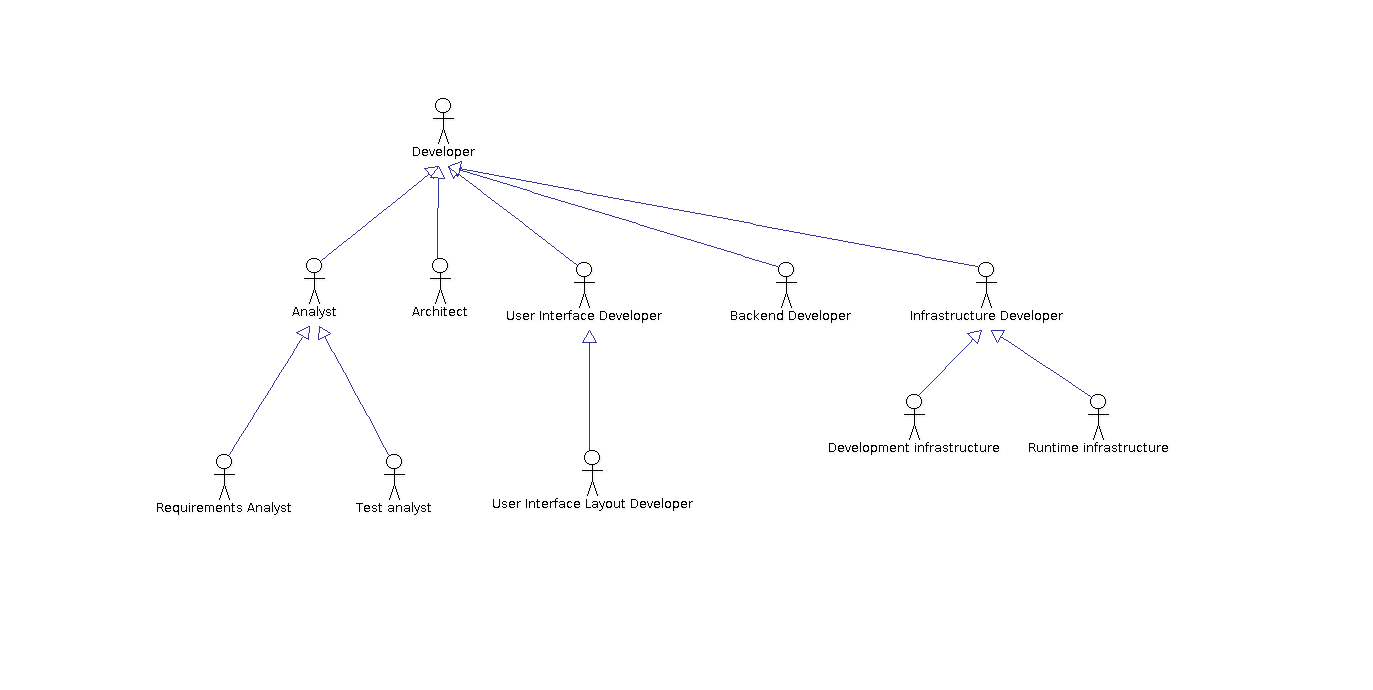
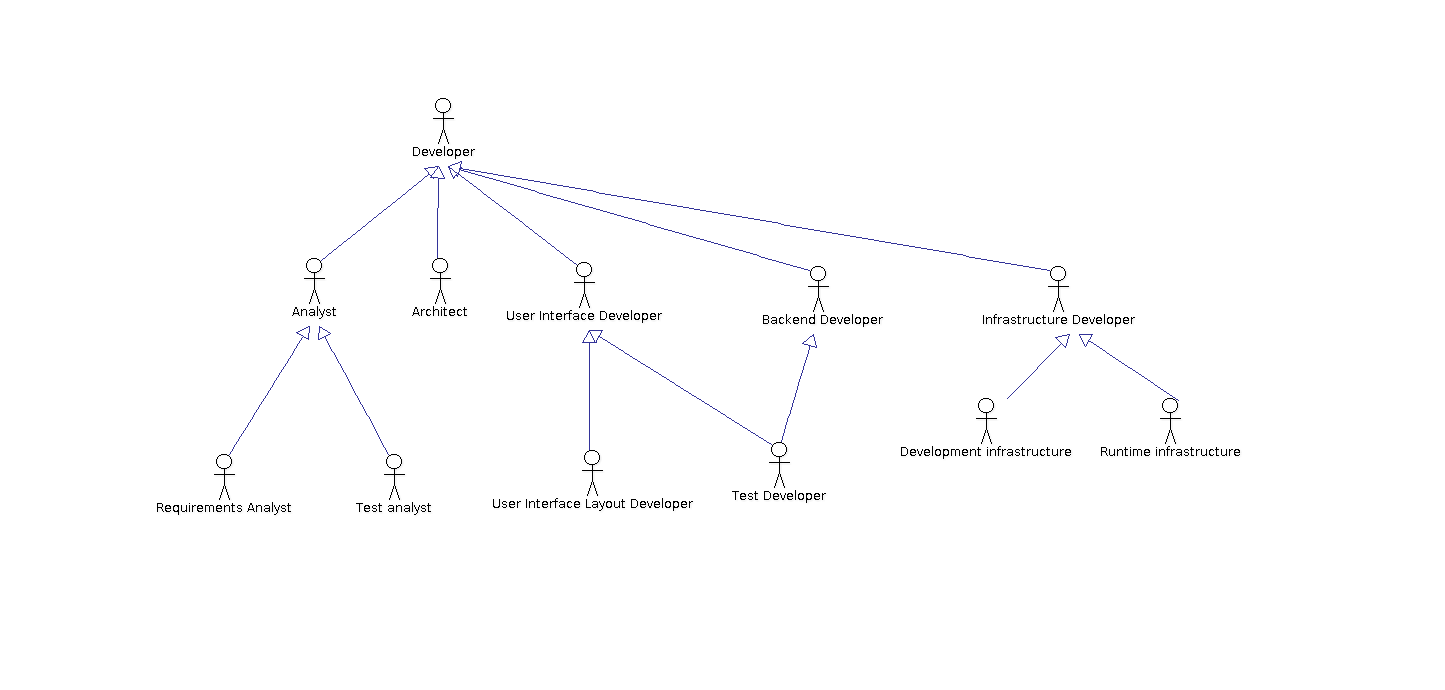
- role extender, documented methodoligies, technologies and tools

diff --git a/1-architecture/README.md b/1-architecture/README.md
@@ -99,9 +99,14 @@ The following picture shows **Developer Roles** identified in `DevCC` c
   * **User Interface Developer**: *implementation developer* responsible for user interface functionality
 
     * **User Interface Layout Developer**: *implementation developer*
-        responsible for visual aspect of user interface
+        responsible for visual aspect of user interface, implement also unit
+      tests for the code
 
-  * **Backed Developer**: *implementation developer* responsible for integrating back end systems and datastores
+  * **Backed Developer**: *implementation developer* responsible for
+      integrating back end systems and datastores, implement also unit
+      tests for the code
+  
+  * **Test Developer**: implement test, which are not unit tests, e.g. acceptance test implementation
   
   * **Infrastructure Developer**: Further decomposed to *Development
       Infrastructure Developer* and *Runtime Infrastructure Management
@@ -116,49 +121,92 @@ The following picture shows **Developer Roles** identified in `DevCC` c
 
 * **Requirements Analyst** 
   * **Methodologies**
+    * [INVEST requirements](http://en.wikipedia.org/wiki/INVEST_%28mnemonic%29)
   * **Technologies**
   * **Tools**
+    * [Free Twitter Bootstrap 3.0 UI Mockup Templates for Keynote and PowerPoint](http://keynotopia.com/bootstrap/)
+	* [Office Tools](http://office.microsoft.com/en-us/) or [LibreOffice](https://www.libreoffice.org/)
   
 * **Test Analyst** 
   * **Methodologies**
+	* [Behavior-driven development](http://en.wikipedia.org/wiki/Behavior-driven_development)
+	* [Acceptance Testing](http://en.wikipedia.org/wiki/Acceptance_testing)
   * **Technologies**
   * **Tools**
+    * [Cucumber](http://cukes.info/)
 
 * **Architect** : support as mediator between analysts and implementation developers
   * **Methodologies**
   * **Technologies**
   * **Tools**
+	* [Dia](http://en.wikipedia.org/wiki/Dia_%28software%29)
+	* [ArgoUML](http://argouml.tigris.org/)
 
 * **User Interface Developer**
   * **Methodologies**
+    * [Unit testing](http://en.wikipedia.org/wiki/Unit_testing)
+    * [Unit testing](http://en.wikipedia.org/wiki/Unit_testing)
   * **Technologies**
+	* [css](http://en.wikipedia.org/wiki/Cascading_Style_Sheets)
+	* [html](http://en.wikipedia.org/wiki/HTML)
+    * [Javascript](http://en.wikipedia.org/wiki/JavaScript)
   * **Tools**
+	* [Bower](https://github.com/bower/bower)
+	* [AngularJS Framework](http://angularjs.org/)
+    * [Twitter Bootstrap](http://getbootstrap.com/)
+	* [Karma Test Runner](http://karma-runner.github.io/0.10/index.html)
+	* [Mocha Unit test framework](http://visionmedia.github.io/mocha/)
+	* [Chai assertion libray](http://chaijs.com/)
 
 * **User Interface Layout Developer**
   * **Methodologies**
   * **Technologies**
+	* [css](http://en.wikipedia.org/wiki/Cascading_Style_Sheets)
+	* [html](http://en.wikipedia.org/wiki/HTML)
   * **Tools**
+    * [Twitter Bootstrap](http://getbootstrap.com/)
 
 * **Backed Developer**
   * **Methodologies**
   * **Technologies**
+    * [Javascript](http://en.wikipedia.org/wiki/JavaScript)
   * **Tools**
-  
+	* [Bower](https://github.com/bower/bower)
+    * [NodeJs](http://nodejs.org/)
+	* [Node Package Manager](https://www.npmjs.org/)
+	* [ExpressJs](http://expressjs.com/guide.html)
+
+* **Test Developer**
+  * **Methodologies**
+    * [Continuous Integration](http://en.wikipedia.org/wiki/Continuous_integration)
+  * **Technologies**
+  	* [Ruby](https://www.ruby-lang.org/en/)
+  * **Tools**
+    * [Cucumber](http://cukes.info/)
+	* [Selenium](http://docs.seleniumhq.org/)
+	* [Jenkins](http://jenkins-ci.org/)
+
 * **Development Infrastructure Developer**
   * **Methodologies**
   * **Technologies**
+   	* [Ruby](https://www.ruby-lang.org/en/)
   * **Tools**
+    * [Node Version Manager](https://github.com/creationix/nvm)
+	* [Groom your app’s Ruby environment](https://github.com/sstephenson/rbenv)
 
 * **Runtime Infrastructure Management Developer**
   * **Methodologies**
   * **Technologies**
+  	* [Ruby](https://www.ruby-lang.org/en/)
   * **Tools**
-
-
-Requirements Analyst | Test Analyst | Architect | User Interface Developer | User Interface Layout Developer | 
+    * [Configuration Management Tool Chef](http://docs.opscode.com/)
+      * [berkshelf](http://berkshelf.com/)
+	  * [Opscode Community Cookbooks](http://community.opscode.com/)
 
 
 ### Architectural Decisions
+
+* Security testing, performance testing not covered here
 
 ### Concerns addressed
 
